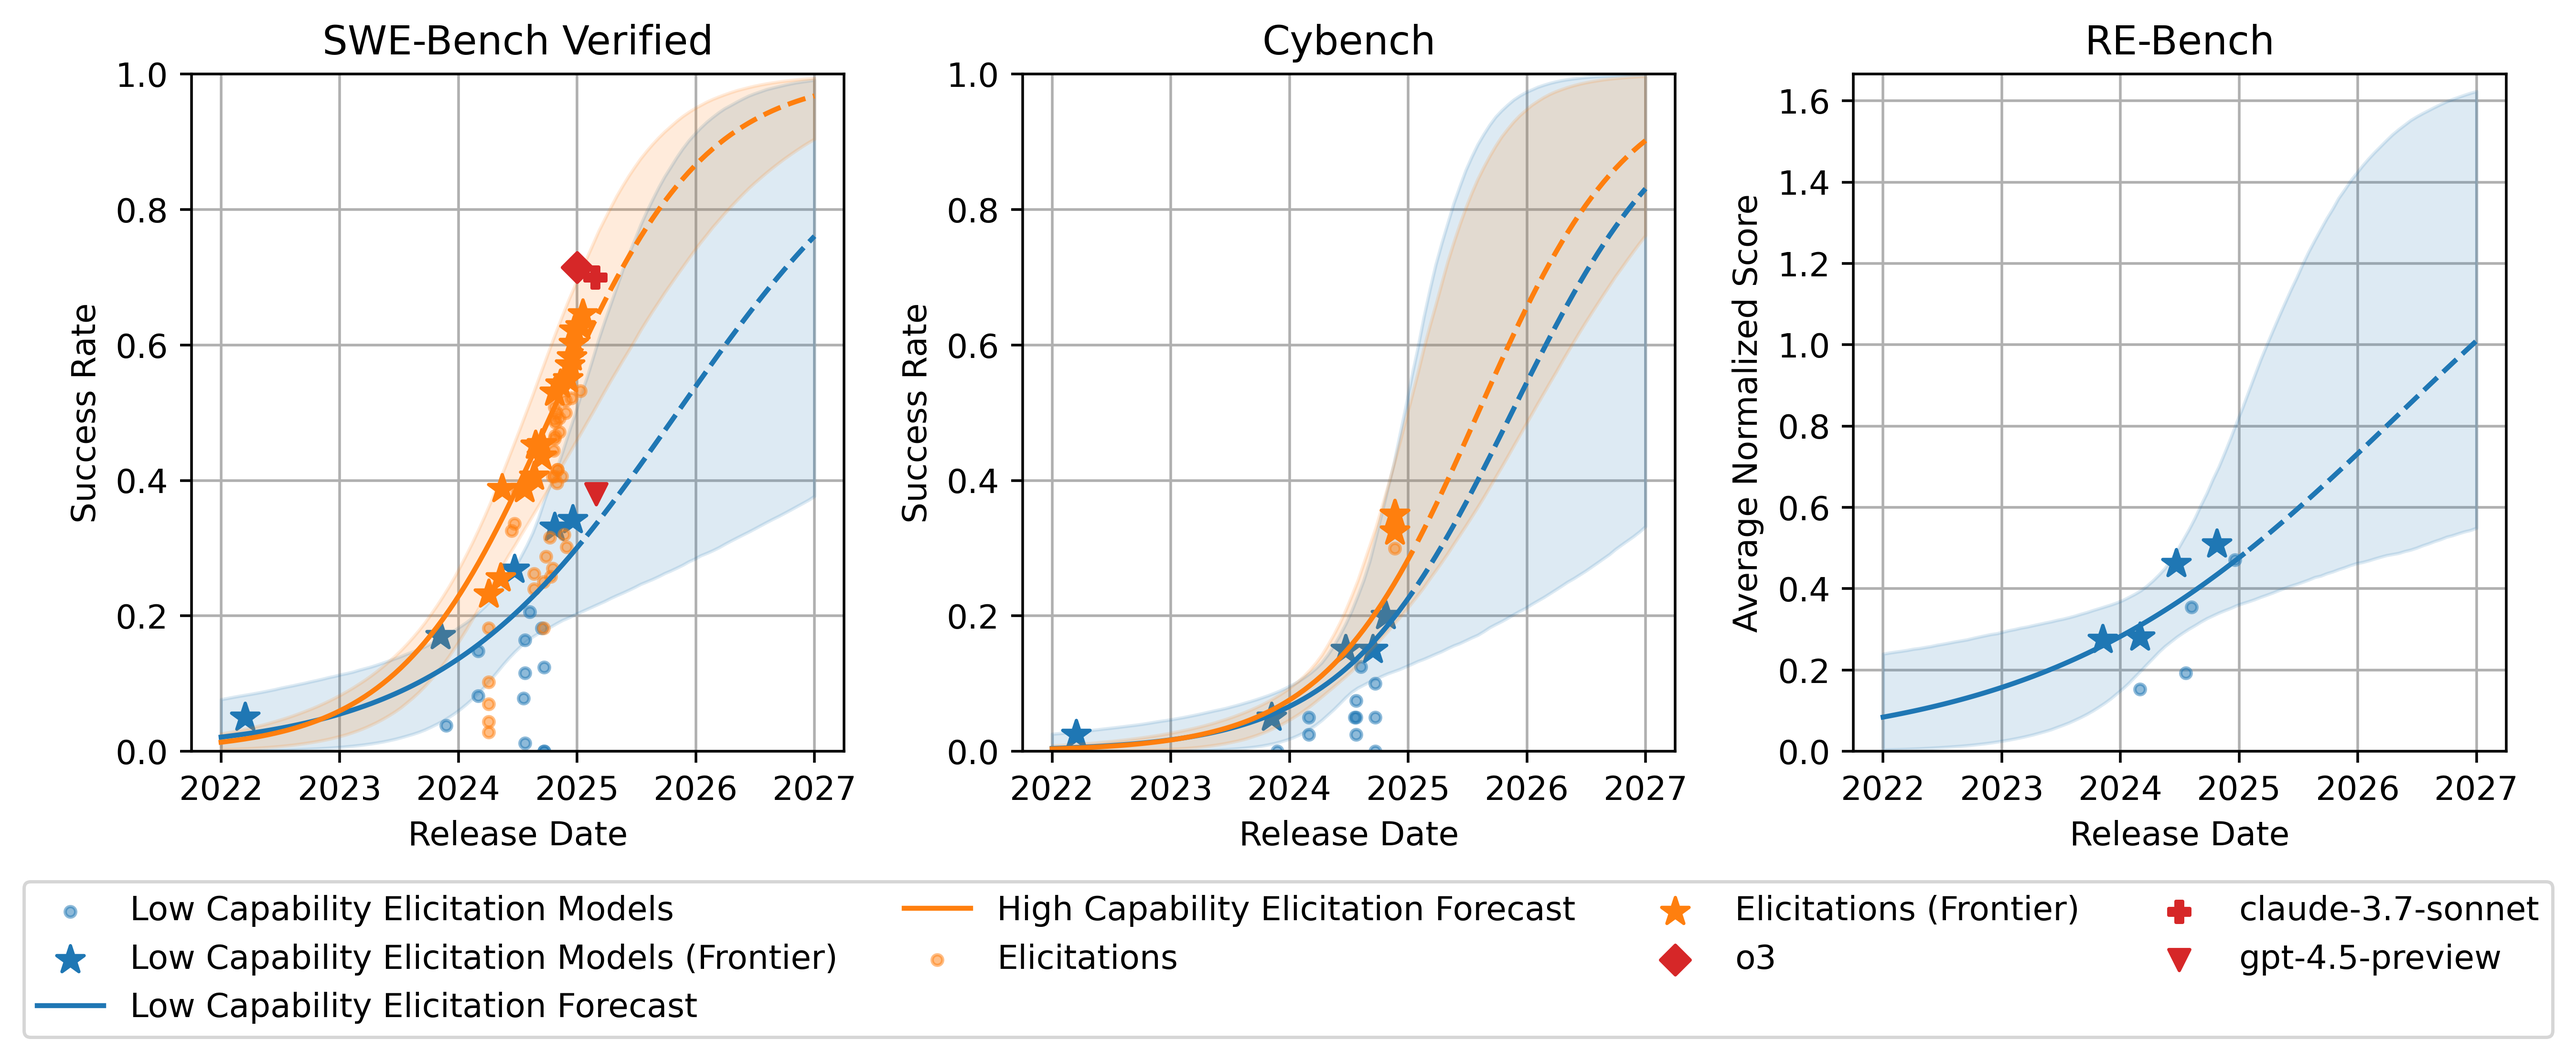
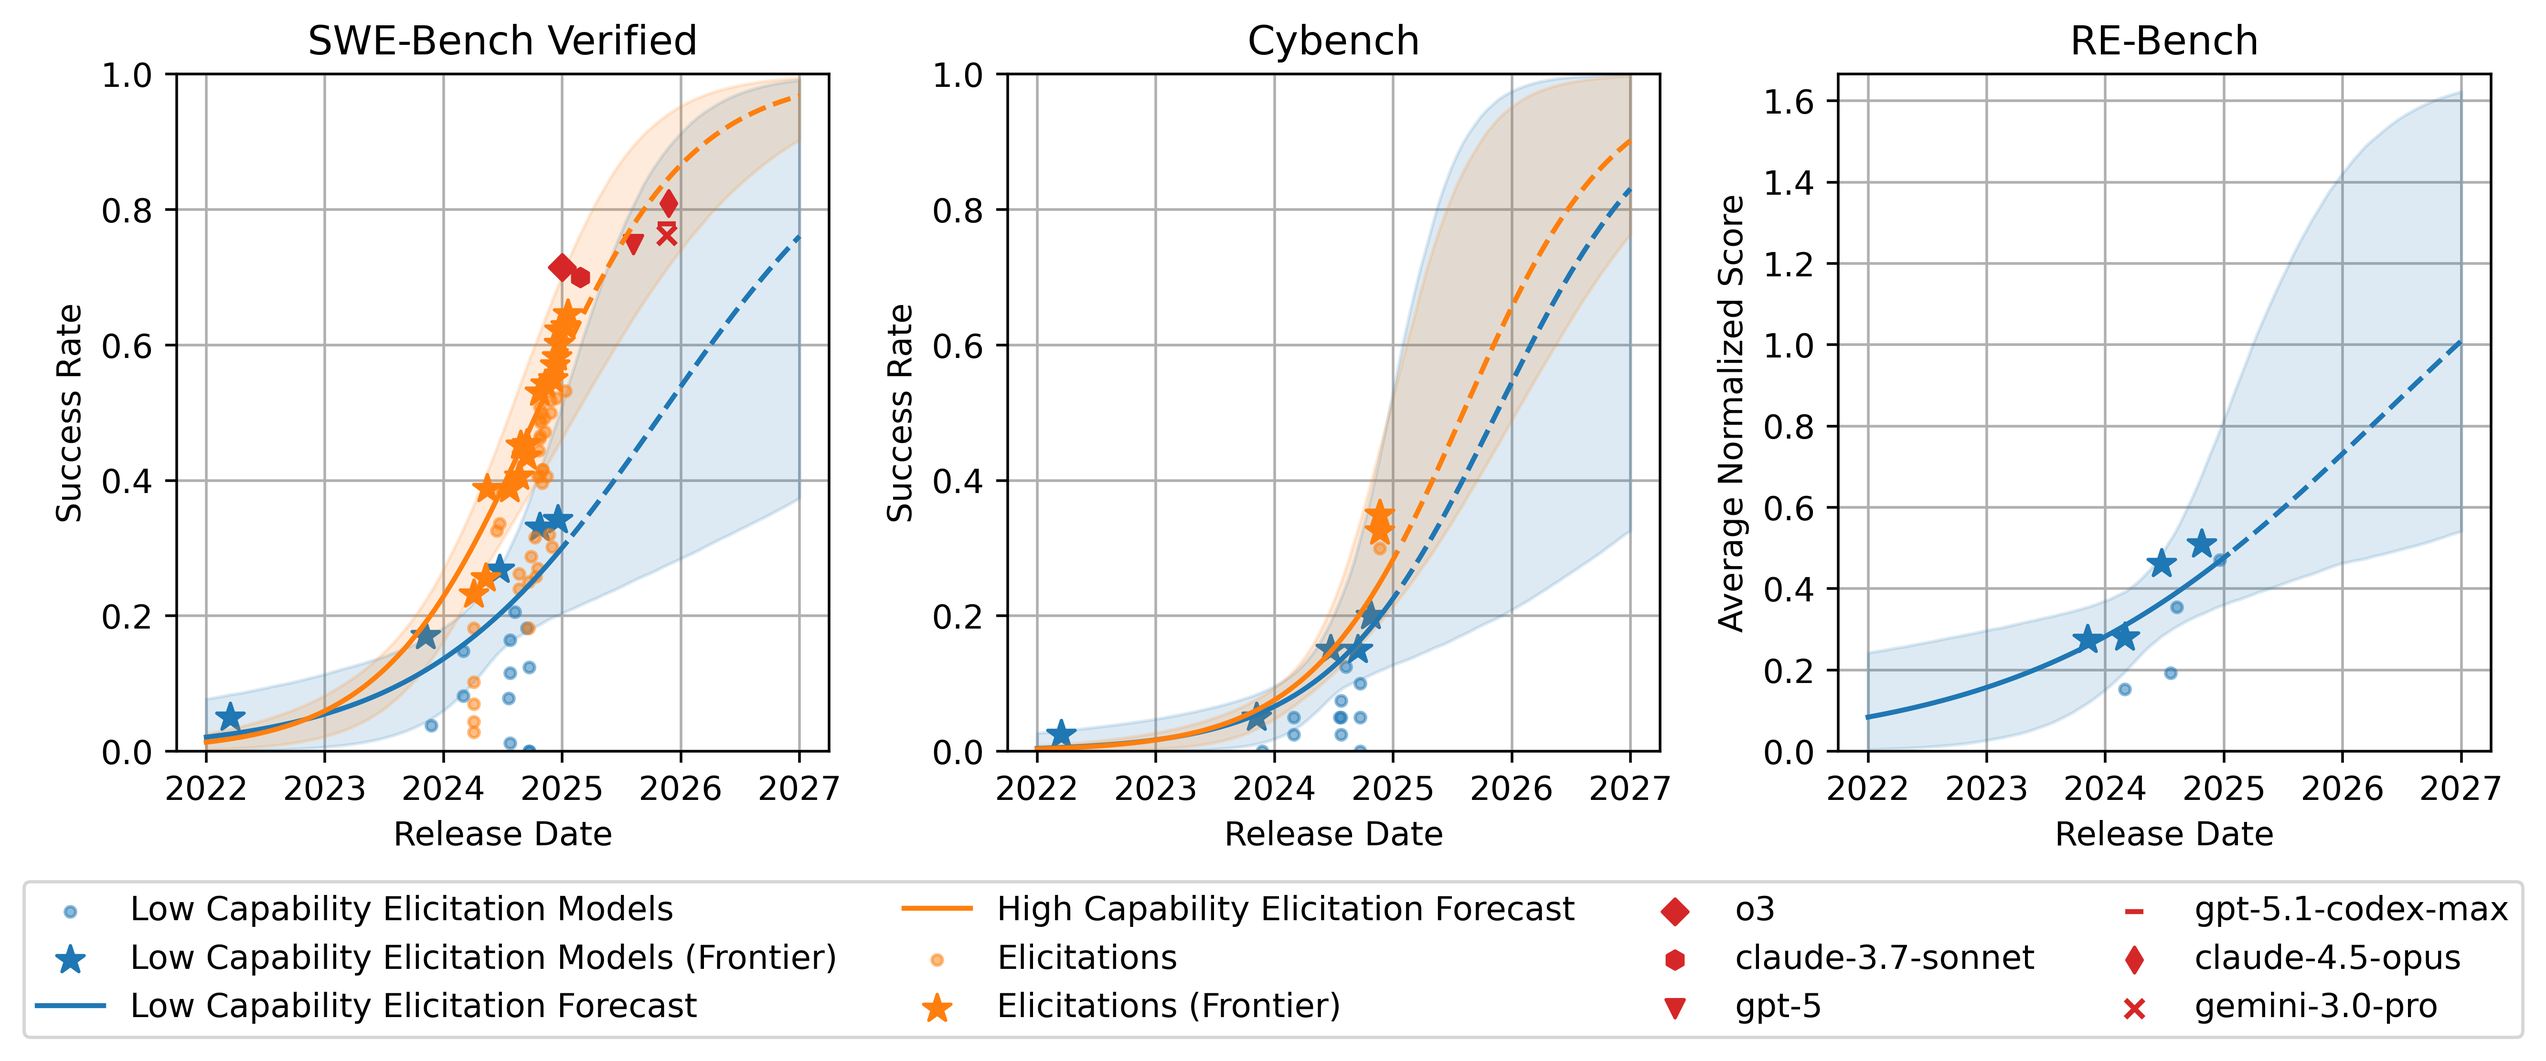
stuff

diff --git a/graphs/backtesting_frontier.py b/graphs/backtesting_frontier.py
@@ -1908,13 +1908,13 @@ model_markers = {
     "anthropic/claude-3-5-sonnet-20240620": "X",
     "anthropic/claude-3-opus-20240229": "s",
     "o3": "D",
-    "claude-3.7-sonnet": "P",
+    "claude-3.7-sonnet": "h",
     "gpt-4.5-preview": "v",
     "together/Qwen--Qwen2.5-72B-Instruct-Turbo": "2",
-    "gpt-5": "D",
-    "gpt-5.1-codex-max": "h",
+    "gpt-5": "v",
+    "gpt-5.1-codex-max": "_",
     "claude-4.5-opus": "d",
-    "gemini-3.0-pro": "v",
+    "gemini-3.0-pro": "x",
 }
 
 
@@ -2249,14 +2249,16 @@ def plot_figure_1(
                 #     color="black",
                 #     alpha=0.4,
                 # )
+                print(model)
 
                 if model in ["o3", "claude-3.7-sonnet", "gpt-5", "gpt-5.1-codex-max", "claude-4.5-opus", "gemini-3.0-pro"]:
+                    print(model)
                     curr_ax.scatter(
                         [release_date],
                         [score],
                         label=(f"{model_friendly_names[model]}"),
                         color="tab:red",
-                        s=40,
+                        s=30,
                         marker=model_markers[model],
                     )
 
